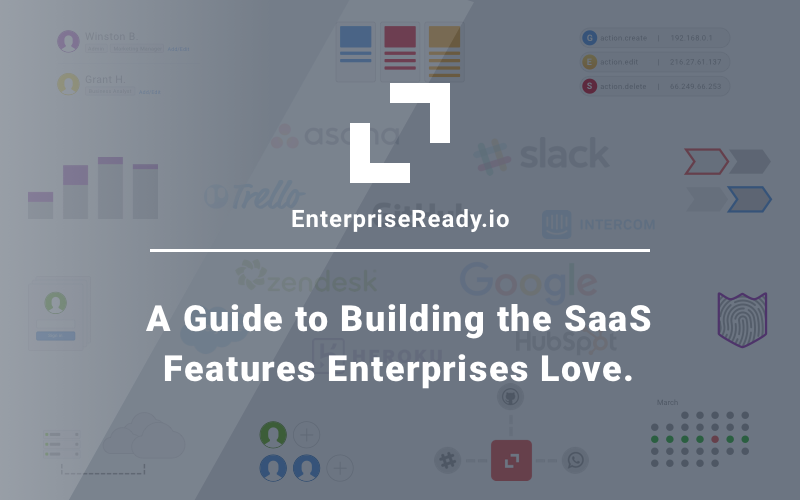
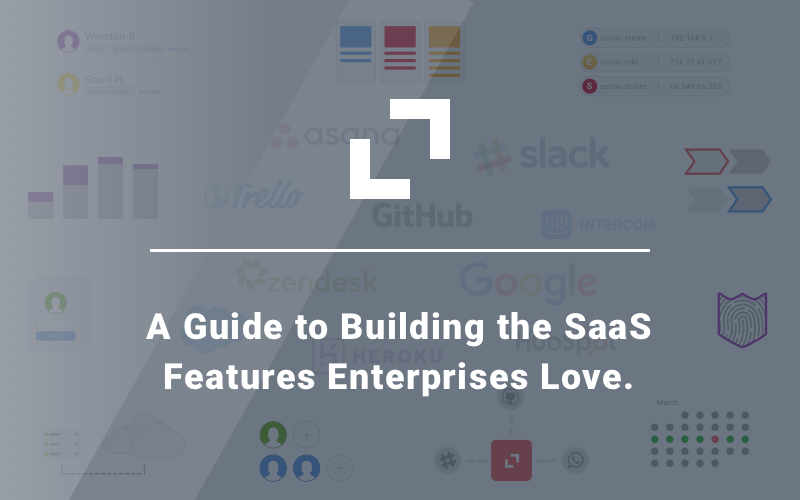
og images (#124)
* Final OG Cards

* Two column layout for HP

* Revert back to 3 column

* New Home OG Image

diff --git a/site/themes/hugo-theme-enterpriseready/layouts/index.html b/site/themes/hugo-theme-enterpriseready/layouts/index.html
@@ -83,6 +83,7 @@
           <p align="center" style="max-width:1000px">The following 11 feature categories were identified as the common <strong>enterprise differentiating</strong> features. Each feature guide includes context for why it is needed, a jumping off point for implementing your own and links to tear downs of example implementations.</p>
         </div>
         <div class="row">
+            
             <div class="four columns">
                 <a href="features/product-assortment">
                   <div class="article-icon"><span class="pa"></span></div>

diff --git a/site/themes/hugo-theme-enterpriseready/static/css/base.css b/site/themes/hugo-theme-enterpriseready/static/css/base.css
@@ -320,6 +320,7 @@ h3.section-header.sub {
         width: 90%;
         margin: 20px;
     }
+
 }
 #checklist .company-links {
     display: block;

diff --git a/content/github/deployment-options.md b/content/github/deployment-options.md
@@ -5,6 +5,8 @@ featureslug = "deployment-options"
 type = "breakdown"
 feature = "Deployment Options"
 company = "github"
+ogimage = "images/twtr/github-deployment-og.png"
+
 +++
 
 GitHub offers their application to customers with a few different deployment options. The vast majority of GitHub's customers run on GitHub.com (in terms of quantity, but not necessarily in terms of revenue), this is the multi-tenant, cloud hosted version of their application. [Individuals sign up for accounts](../blog/user-centric-v-team-centric) and then are added to organizations when they join a new company. Organizations will generally have a mix of private and public repos with varying access based on the users role. The easy of using GitHub.com for open source and personal projects is often attributed with the success of the "bottom up" adoption that GitHub has seen in enterprises.

diff --git a/content/box/product-security.md b/content/box/product-security.md
@@ -5,6 +5,8 @@ featureslug = "product-security"
 type = "breakdown"
 feature = "Product Security"
 company = "box"
+ogimage = "images/twtr/box-product-security-og.png"
+
 +++
 
 [Box](https://box.com) is a file sharing and collaboration tool that has built its business on enabling enterprise companies to transition away from legacy shared drive systems, to the cloud-hosted Box platform. Along the way Box has faced a never-ending string of objections from potential buyers in the areas of security. As a result, Box has continued to create demonstrable security practices and the marketing campaigns to promote their objectives.

diff --git a/content/segment/integrations.md b/content/segment/integrations.md
@@ -7,6 +7,8 @@ feature = "integrations"
 company = "segment"
 contributor = "Segment"
 contributorurl = "https://www.segment.com"
+ogimage = "images/twtr/segment-integrations-og.png"
+
 +++
 
 Segment is an enterprise SaaS solution that helps companies simplify their analytics. In 2011, the founders came across an engineering pain of writing redundant tracking code to send customer behavioral events to Google Analytics, MixPanel, and KISSmetrics. A few months later, [analytics.js](https://github.com/segmentio/analytics.js), an analytics wrapper library, was conceived.

diff --git a/content/zendesk/audit-log.md b/content/zendesk/audit-log.md
@@ -5,6 +5,8 @@ featureslug = "audit-logs"
 type = "breakdown"
 feature = "audit logs"
 company = "zendesk"
+ogimage = "images/twtr/zendesk-audit-log-og.png"
+
 +++
 
 The [Zendesk audit log](https://support.zendesk.com/hc/en-us/articles/203663196-Viewing-the-Audit-log-for-changes-Enterprise-) is available only to Enterprise level customers. It includes the basic audit logging features in that it tracks Who, What, When and Where. However, it lacks many of the features that make audit logs a critical enterprise ready feature.

diff --git a/content/google/audit-log.md b/content/google/audit-log.md
@@ -5,6 +5,8 @@ feature-slug = "audit-logs"
 type = "breakdown"
 feature = "audit logs"
 company = "google"
+ogimage = "images/twtr/google-audit-log-og.png"
+
 +++
 
 Google Apps for Work provides a robust audit trail to both Standard and Unlimited accounts. By default, the feature is only available to Admins. Non-admin users have no way to view their personal audit history. Google categorizes their audit trail as a type of report, so it is available under the Reports menu.

diff --git a/content/hubspot/role-based-access-control.md b/content/hubspot/role-based-access-control.md
@@ -5,6 +5,8 @@ featureslug = "role-based-access-control"
 type = "breakdown"
 feature = "role based access control"
 company = "hubspot"
+ogimage = "images/twtr/hubspot-rbac-og.png"
+
 +++
 
 HubSpot [introduced roles & permissions](http://blog.hubspot.com/customers/bid/157944/Introducing-6-Different-HubSpot-User-Roles) about 4 years ago. In doing so, they enabled their customers to provide role based access control to application functionality.

diff --git a/content/intercom/role-based-access-control.md b/content/intercom/role-based-access-control.md
@@ -5,6 +5,8 @@ feature = "role based access control"
 featureslug = "role-based-access-control"
 company = "intercom"
 type = "breakdown"
+ogimage = "images/twtr/intercom-rbac-og.png"
+
 +++
 
 Intercom is an application to communicate with your customers. Because so many people within an organization would need access to an application like this it was important that Intercom introduced Role Based Access Controls or user permissions.

diff --git a/content/zendesk/change-management.md b/content/zendesk/change-management.md
@@ -5,6 +5,8 @@ featureslug = "change-management"
 type = "breakdown"
 feature = "change management"
 company = "zendesk"
+ogimage = "images/twtr/zendesk-change-management-og.png"
+
 +++
 
 Zendesk enables customers who purchase the enterprise plan to leverage their [Sandbox feature](https://support.zendesk.com/hc/en-us/articles/203661826-Testing-changes-in-your-sandbox-Enterprise-) for change management.

diff --git a/content/asana/teams.md b/content/asana/teams.md
@@ -5,6 +5,7 @@ featureslug = "teams"
 type = "breakdown"
 feature = "teams"
 company = "asana"
+ogimage = "images/twtr/asana-team-og.png"
 +++
 
 Asana is one of the premier project management tools amongst the sea of PM applications. Asana’s application is designed to help teams improve communication, organization and collaboration. This makes it a great service to analyze for Team functionality.

diff --git a/content/google/product-assortment.md b/content/google/product-assortment.md
@@ -5,6 +5,8 @@ featureslug = "product-assortment"
 type = "breakdown"
 feature = "product assortment"
 company = "google"
+ogimage = "images/twtr/google-product-assortment-og.png"
+
 +++
 
 Google Apps for Work is the business focused version of the popular and free to consumers, Google Apps products shown below:
